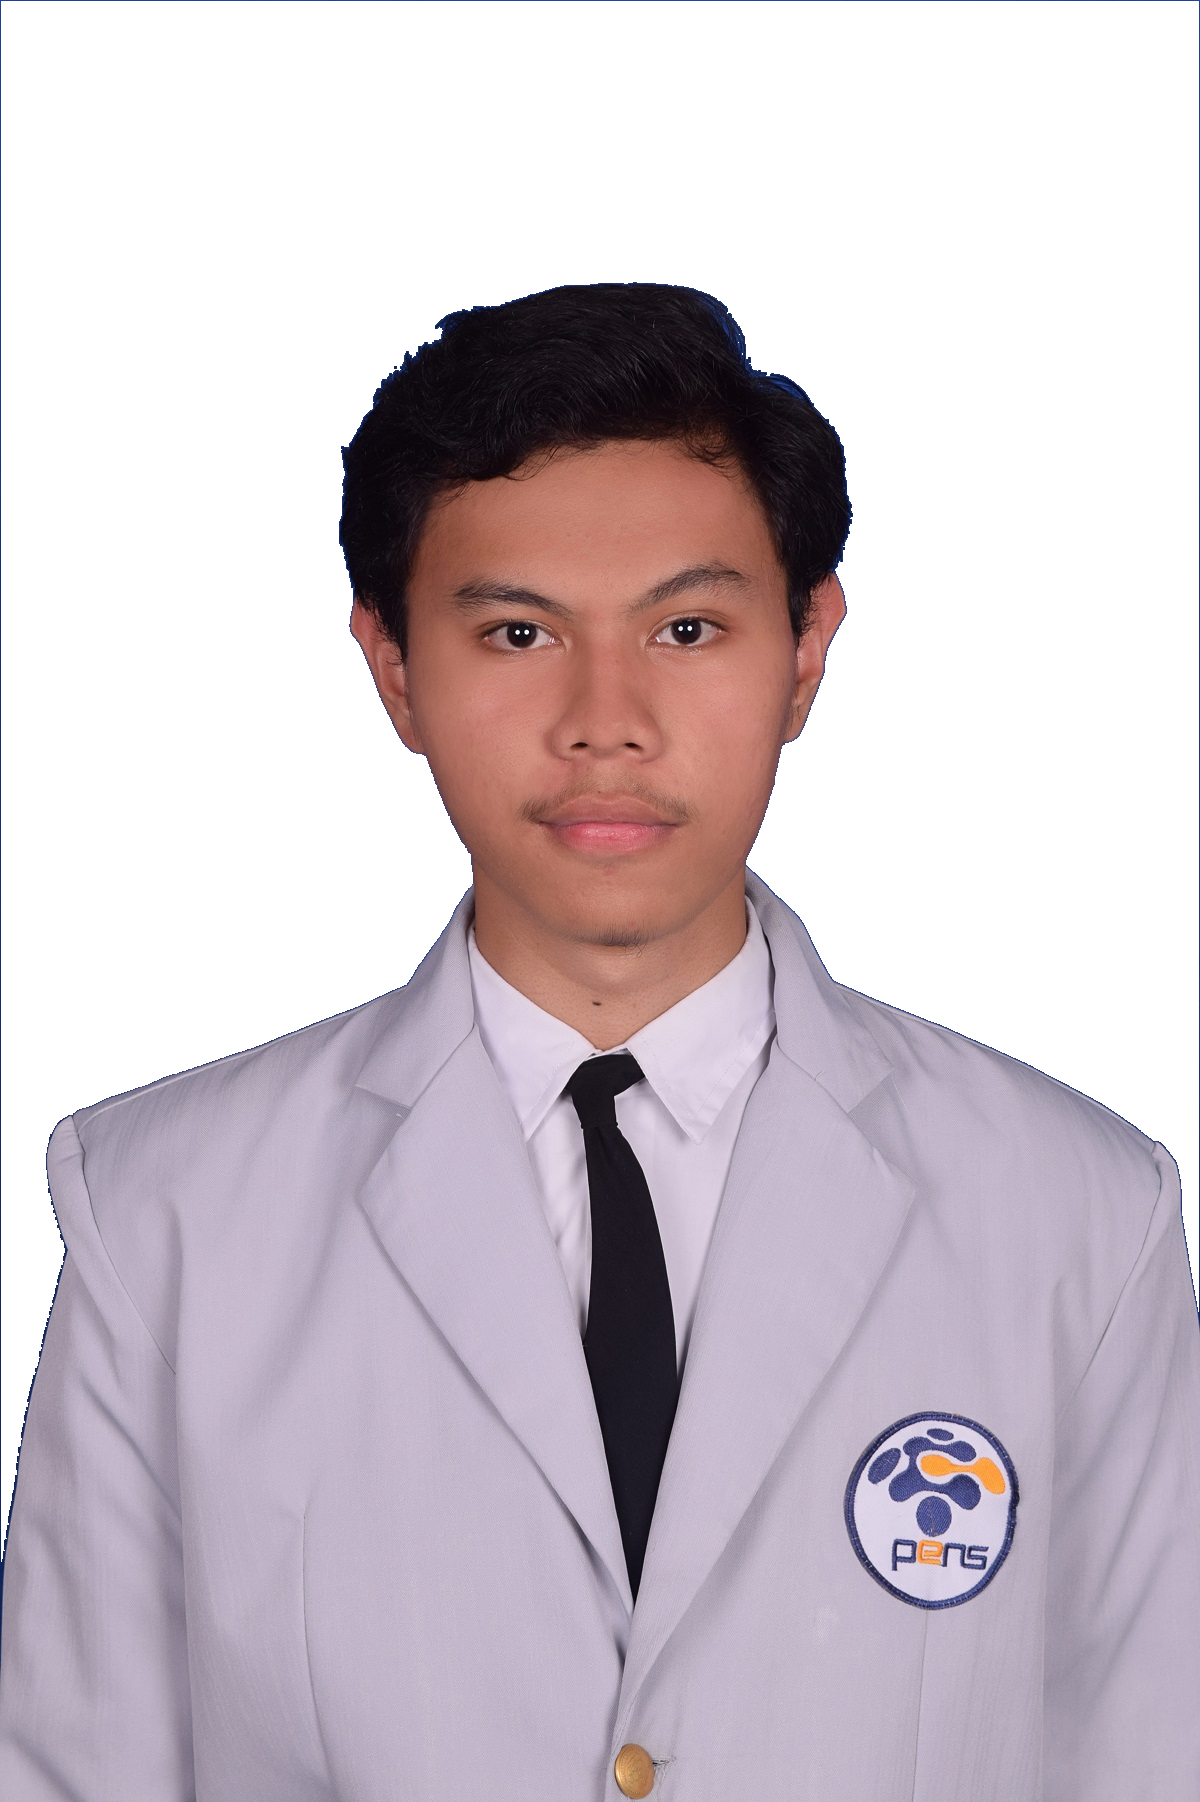
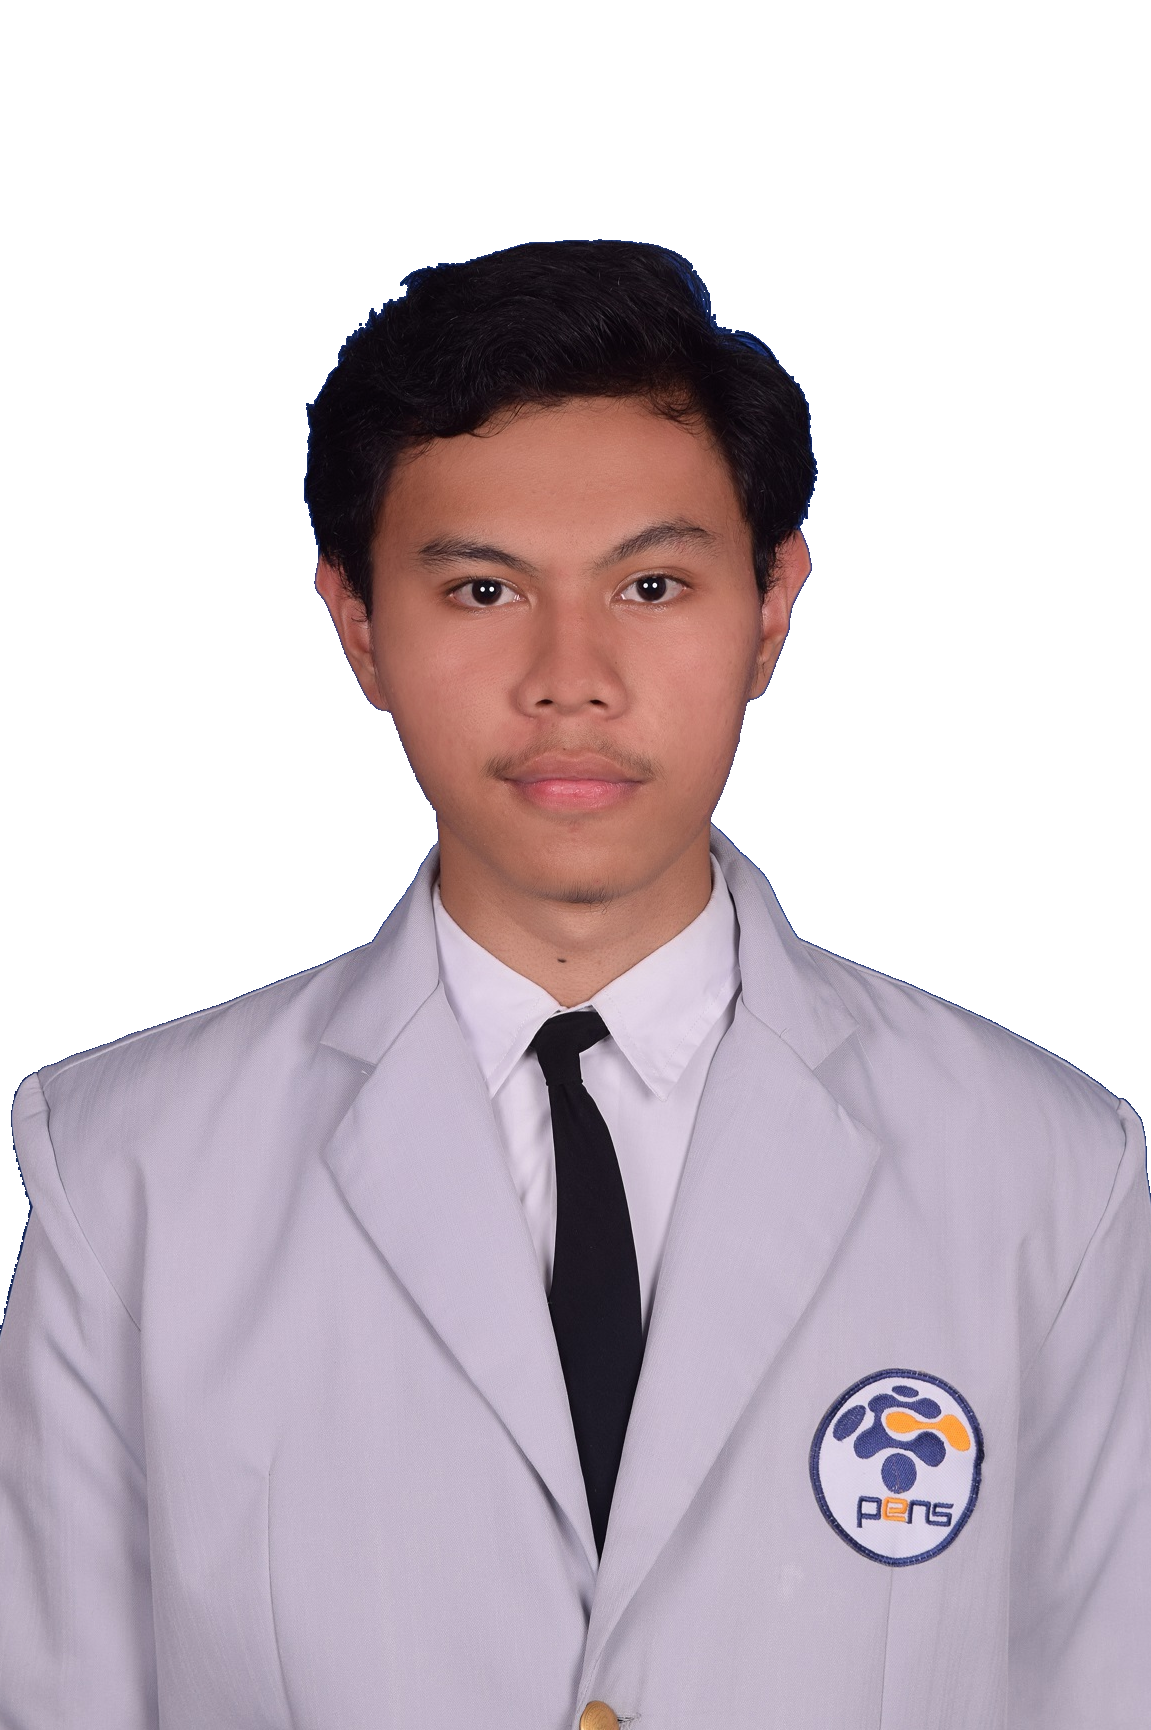
mantap bulet

diff --git a/index.html b/index.html
@@ -116,7 +116,7 @@
           <div class="col-xl-6 col-lg-5 col-md-8 " data-aos="fade-left" data-aos-duration="800" data-aos-once="true">
             <div class="banner-image-l-14">
               <!-- <img src="./image/l4/hero-img.png" alt="" class="w-100 mt-xl-n10"> -->
-              <img src="./image/l4/kristo-bening.png" alt="" class="w-60 mt-xl-n10">
+              <img src="./image/l4/me.png" alt="" class="w-60 mt-xl-n10">
             </div>
           </div>
         </div>
